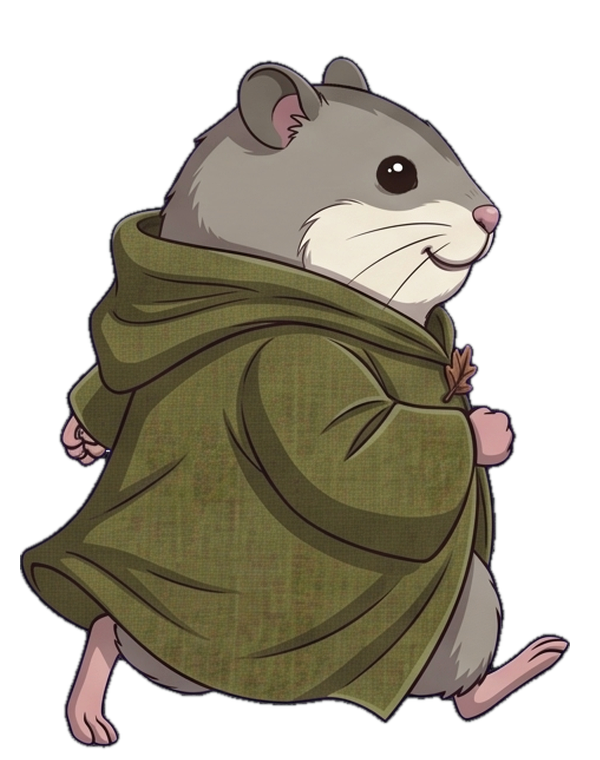
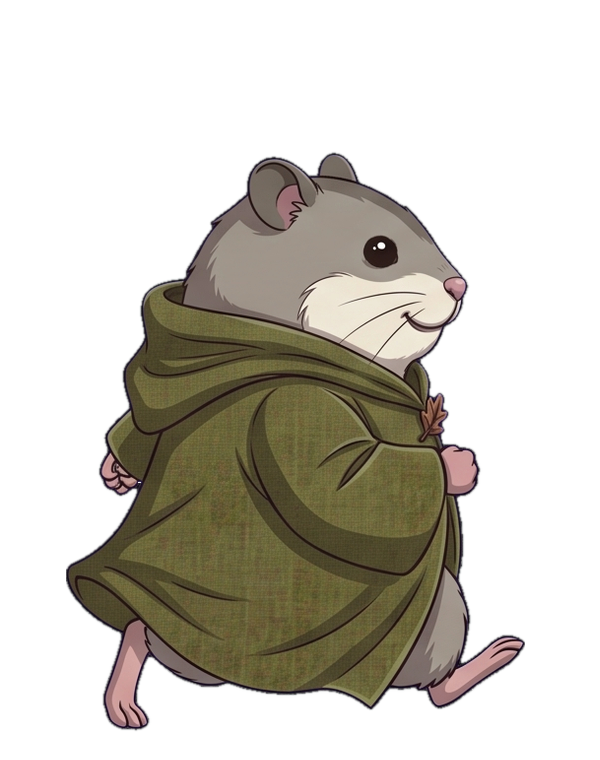
ムスビ: 顔の高さを基準に全コマの大きさを統一、顔の位置をそろえて描画。夜の光の最大値を抑える

diff --git a/frontend/src/components/ForestRun.tsx b/frontend/src/components/ForestRun.tsx
@@ -20,6 +20,7 @@ const MUSUBI_H = 132;
 const GRAVITY = 1800;
 const JUMP_V = -760;
 const LIVES = 3;
+const MUSUBI_FACE_DX = 26; // 顔の中心は、体の中心より、少し前（右）にある
 const MUSUBI_SINK = 12; // ムスビの足もとを、地面に、少しうめる
 const GROUND_EDGE = 6; // 障害物の底を、地面の線から、さらに下へ置く量
 const GATE_H = 240; // ゴールの門の高さ
@@ -137,7 +138,7 @@ const IMAGE_NAMES = [
 type Images = Record<string, HTMLImageElement>;
 
 /** コマごとの、大きさの倍率（tools/musubi_sizes.py が作る）。頭の大きさを、そろえるため */
-let sizeAdj: Record<string, number> = {};
+let sizeAdj: Record<string, { a: number; fx: number }> = {};
 
 interface Box {
   sx: number;
@@ -471,7 +472,7 @@ export function ForestRun({ onClose }: { onClose: () => void }) {
       if (mi.naturalWidth) {
         // 走り（歩き）のコマは、切り出した大きさが違うので、人物の高さが同じになるよう、倍率を変える
         // （切り出しの基準は、幅300。高画質版（2倍）でも、同じ大きさになるよう、画像の幅で割る）
-        const sc = (name.startsWith('musubi_walk') ? (MUSUBI_H / 290) * (300 / mi.naturalWidth) : MUSUBI_H / 945) * (sizeAdj[name] ?? 1);
+        const sc = (name.startsWith('musubi_walk') ? (MUSUBI_H / 290) * (300 / mi.naturalWidth) : MUSUBI_H / 945) * (sizeAdj[name]?.a ?? 1);
         const mw = mi.naturalWidth * sc;
         const mh = mi.naturalHeight * sc;
         const blink = phaseNow === 'playing' && g.invuln > 0 && Math.floor(g.invuln * 14) % 2 === 0;
@@ -480,7 +481,10 @@ export function ForestRun({ onClose }: { onClose: () => void }) {
           const b = boxes[name];
           // 走り（歩き）のコマは、体の上下を、絵の中で、そろえてあるので、足もとの基準線（キャンバスの上から360）で、そろえる
           const footY = name.startsWith('musubi_walk') ? mi.naturalHeight * (360 / 380) * sc : b ? (b.sy + b.sh) * sc : mh;
-          dFull(ctx, mi, MUSUBI_X - mw / 2, GY - g.y - footY + MUSUBI_SINK, mw, mh);
+          // 顔（白い口まわり）の中心の横位置を、どのコマでも、同じ場所にそろえる（コマごとに、位置がずれないように）
+          const faceX = sizeAdj[name]?.fx;
+          const left = faceX !== undefined ? MUSUBI_X + MUSUBI_FACE_DX - faceX * mw : MUSUBI_X - mw / 2;
+          dFull(ctx, mi, left, GY - g.y - footY + MUSUBI_SINK, mw, mh);
         }
       }
 

diff --git a/frontend/src/components/NightFx.tsx b/frontend/src/components/NightFx.tsx
@@ -44,7 +44,7 @@ export function NightFx() {
       Array.from({ length: 48 }, (_, i) => ({
         x: Math.random() * 100,
         y: 18 + Math.random() * 78,
-        size: 4 + Math.random() * 6,
+        size: 4 + Math.random() * 4,
         dur: 9 + Math.random() * 12,
         delay: -Math.random() * 20,
         dx: (Math.random() - 0.5) * 8,
@@ -63,7 +63,7 @@ export function NightFx() {
           style={{
             left: `${g.x}%`,
             top: `${g.y}%`,
-            width: `${g.r * 1.7}%`,
+            width: `${g.r * 1.3}%`,
             ['--c' as string]: g.c,
             animationDelay: `${-((i * 1.37) % 5)}s`,
             animationDuration: `${3.6 + (i % 5) * 0.7}s`,

diff --git a/frontend/src/App.css b/frontend/src/App.css
@@ -1747,8 +1747,8 @@ h1 {
   animation: nightGlowPulse 4s ease-in-out infinite;
 }
 @keyframes nightGlowPulse {
-  0%, 100% { opacity: 0.3; transform: translate(-50%, -50%) scale(0.9); }
-  50% { opacity: 1; transform: translate(-50%, -50%) scale(1.2); }
+  0%, 100% { opacity: 0.25; transform: translate(-50%, -50%) scale(0.85); }
+  50% { opacity: 0.75; transform: translate(-50%, -50%) scale(1.05); }
 }
 .night-mote {
   position: absolute;

diff --git a/tools/musubi_sizes.py b/tools/musubi_sizes.py
@@ -1,8 +1,8 @@
 """
-ムスビの、各コマ（歩き12・ジャンプ・落下・着地・ぶつかる・がっかり・喜ぶ・待機）の、表示される大きさを、そろえる。
-コマごとに、頭の大きさが少しずつ違い、アニメーションや、ポーズの切り替えで、大きさが変わって見える。
-頭の幅（頭の上の部分の、横幅）を、ゲームでの表示の大きさで測り、全コマの中央値に、合わせる倍率を書き出す。
-出力: frontend/public/assets/games/musubi_scale.json  （ゲームが、読みこんで、倍率をかける）
+ムスビの、各コマ（歩き12・ジャンプ・落下・着地・ぶつかる・がっかり・喜ぶ・待機）の、顔の大きさと位置を、そろえる。
+- 大きさ：顔の高さ（耳の上から、あご＝白い口まわりの下まで）を、ゲームでの表示の大きさで測り、歩きのコマの中央値に合わせる倍率
+- 位置：顔の中心（白い口まわり）の横の位置を測り、ゲームで、どのコマも、顔が同じ場所に来るようにする
+出力: frontend/public/assets/games/musubi_scale.json  { 名前: { a: 倍率, fx: 顔の中心の横位置（画像の幅に対する割合） } }
 使い方: split_run_sheet.py と match_musubi_colors.py のあとに、python tools/musubi_sizes.py
 """
 import json
@@ -12,8 +12,7 @@ from pathlib import Path
 from PIL import Image
 
 GAMES = Path(__file__).resolve().parent.parent / 'frontend' / 'public' / 'assets' / 'games'
-MUSUBI_H = 132  # ゲームでの、人物の高さの目安
-HEAD_UNITS = 38  # 頭の高さ（ゲームの表示の大きさ）。この範囲の横幅を、頭の幅とする
+MUSUBI_H = 132
 WALK = [f'musubi_walk_{i:02d}' for i in range(1, 13)]
 POSES = ['musubi_jump_up_right', 'musubi_fall_right', 'musubi_land_right', 'musubi_hit_right', 'musubi_sad_front', 'musubi_cheer_front_1', 'musubi_idle_right']
 
@@ -25,26 +24,37 @@ def base_scale(name, width):
     return MUSUBI_H / 945
 
 
-def head_width_display(name):
+def face_metrics(name):
+    """(顔の高さ［ゲームでの表示の大きさ］, 顔の中心の横の割合)"""
     im = Image.open(GAMES / f'{name}.png').convert('RGBA')
-    a = im.split()[-1].point(lambda v: 255 if v > 40 else 0)
-    bb = a.getbbox()
+    px = im.load()
+    bb = im.split()[-1].point(lambda v: 255 if v > 128 else 0).getbbox()
+    lim = bb[1] + int((bb[3] - bb[1]) * 0.42)  # 頭の部分（上から42%）
+    ys, xs = [], []
+    for y in range(bb[1], lim):
+        for x in range(bb[0], bb[2]):
+            r, g, b, al = px[x, y]
+            if al > 200 and r > 205 and g > 190 and b > 150 and 12 < r - b < 75:  # 白〜クリーム色（口まわり）
+                ys.append(y)
+                xs.append(x)
+    ys.sort()
+    chin = ys[int(len(ys) * 0.98)]
     sc = base_scale(name, im.width)
-    rows = int(HEAD_UNITS / sc)
-    band = a.crop((0, bb[1], im.width, min(im.height, bb[1] + rows)))
-    hb = band.getbbox()
-    return (hb[2] - hb[0]) * sc
+    return (chin - bb[1]) * sc, (sum(xs) / len(xs)) / im.width
 
 
 def main():
     names = [n for n in WALK + POSES if (GAMES / f'{n}.png').exists()]
-    widths = {n: head_width_display(n) for n in names}
-    target = sorted(widths.values())[len(widths) // 2]
-    adj = {n: round(max(0.8, min(1.25, target / w)), 4) for n, w in widths.items()}
+    m = {n: face_metrics(n) for n in names}
+    walk_heights = sorted(m[n][0] for n in names if n in WALK)
+    target = walk_heights[len(walk_heights) // 2]
+    out = {}
     for n in names:
-        print(f'{n}: head {widths[n]:.1f} -> x{adj[n]}')
-    (GAMES / 'musubi_scale.json').write_text(json.dumps(adj, indent=1), encoding='utf-8')
-    print('target head width', round(target, 1))
+        h, fx = m[n]
+        out[n] = {'a': round(max(0.8, min(1.3, target / h)), 4), 'fx': round(fx, 4)}
+        print(f'{n}: face height {h:.1f} -> x{out[n]["a"]}, face x {fx:.3f}')
+    (GAMES / 'musubi_scale.json').write_text(json.dumps(out, indent=1), encoding='utf-8')
+    print('target face height', round(target, 1))
 
 
 if __name__ == '__main__':

diff --git a/tools/split_run_sheet.py b/tools/split_run_sheet.py
@@ -54,17 +54,26 @@ def main():
             frame = frame.crop(frame.split()[-1].getbbox())
             crops.append(frame)
 
-    # 顔の大きさが、コマごとに少し違い、顔がぶるぶる動いて見えるので、頭の幅を、全コマの中央値にそろえる
-    def head_width(f):
-        h = f.split()[-1].crop((0, 0, f.size[0], 85 * k)).point(lambda v: 255 if v > 128 else 0)
-        bb = h.getbbox()
-        return (bb[2] - bb[0]) if bb else f.size[0]
+    # 顔の大きさが、コマごとに違うので、顔の高さ（耳の上から、白い口まわりの下まで）を、全コマの中央値にそろえる
+    def head_height(f):
+        px = f.load()
+        a_ = f.split()[-1]
+        bb = a_.point(lambda v: 255 if v > 128 else 0).getbbox()
+        lim = bb[1] + int((bb[3] - bb[1]) * 0.42)
+        ys = []
+        for y in range(bb[1], lim):
+            for x in range(bb[0], bb[2]):
+                r, g, b, al = px[x, y]
+                if al > 200 and r > 205 and g > 190 and b > 150 and 12 < r - b < 75:
+                    ys.append(y)
+        ys.sort()
+        return (ys[int(len(ys) * 0.98)] - bb[1]) if ys else f.size[1] * 0.2
 
-    widths = sorted(head_width(f) for f in crops)
-    median = widths[len(widths) // 2]
+    heights = sorted(head_height(f) for f in crops)
+    median = heights[len(heights) // 2]
     frames = []
     for f in crops:
-        k = min(1.18, max(0.85, median / head_width(f)))
+        k = min(1.3, max(0.8, median / head_height(f)))
         if abs(k - 1) > 0.01:
             f = f.resize((round(f.size[0] * k), round(f.size[1] * k)), Image.LANCZOS)
         fa = f.split()[-1]

diff --git a/tools/README_assets.md b/tools/README_assets.md
@@ -3,5 +3,5 @@
 1. `python tools/process_game_assets.py` — raw の画像の背景（青・緑・黒）を抜いて、games/ に書き出す
 2. `python tools/split_run_sheet.py` — ムスビの走りシート（`musubi_run_sheet_2x` があれば、それ）を12コマに切り分ける
 3. `python tools/match_musubi_colors.py` — ムスビのコマの色をそろえる
-4. `python tools/musubi_sizes.py` — ムスビのコマの頭の大きさをそろえる倍率（musubi_scale.json）を作る
+4. `python tools/musubi_sizes.py` — 顔の高さ（耳の上〜あご）と、顔の中心の横位置を測り、全コマの顔の大きさ・位置をそろえる倍率（musubi_scale.json）を作る
 5. `python tools/make_loop.py runbg_mid2 0.22` / `run_ground 0.2` / `runbg_near 0.2` — 横にループする背景の、つなぎ目を直した絵（`*_loop.png`）を作る
